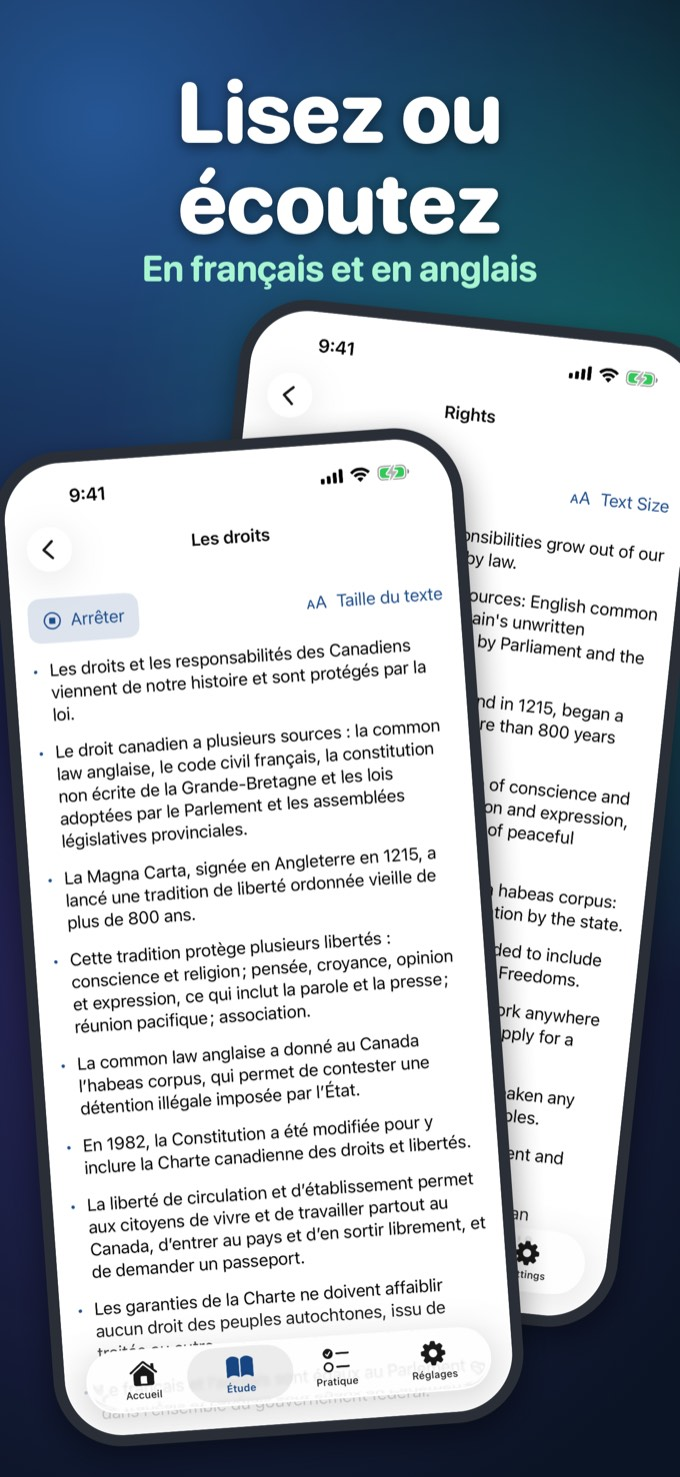
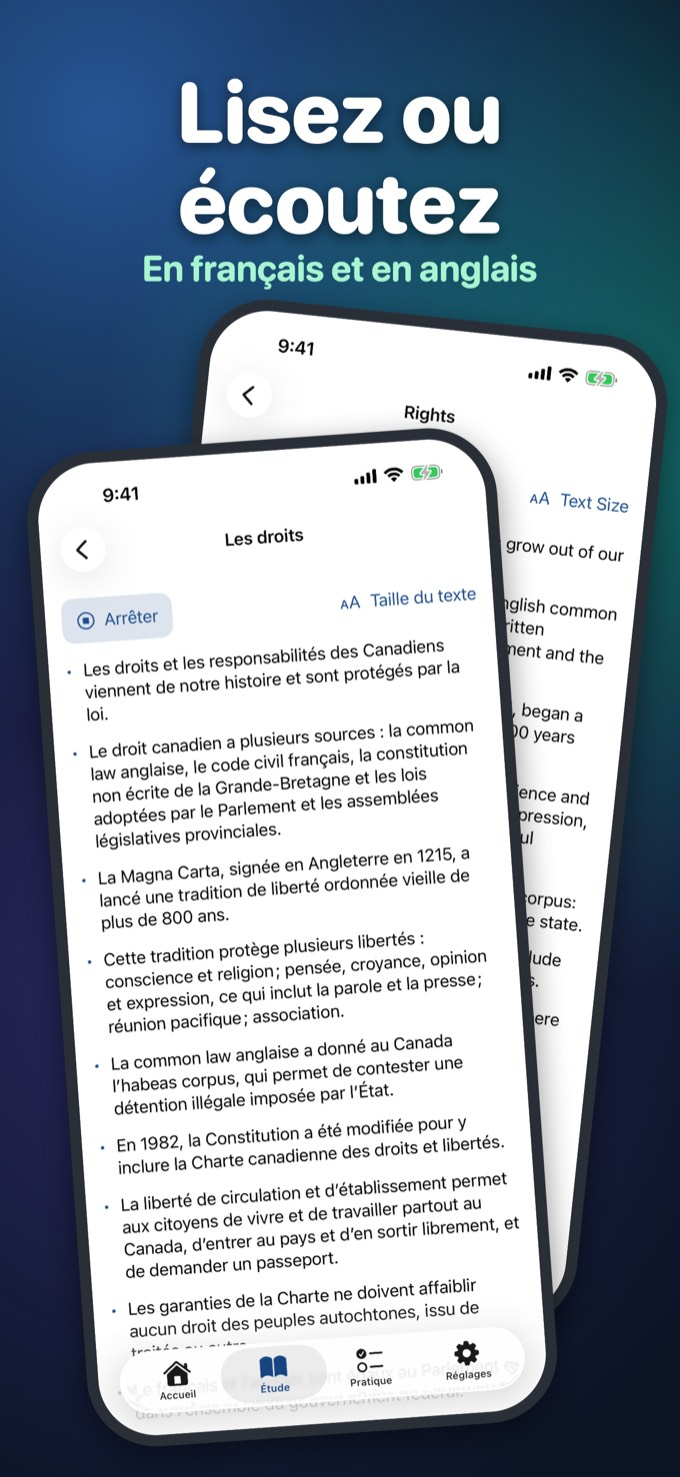
fix: use the screenshots that no longer cut off the app
The nine CardTrainer and CitizenCoach images come from the re-rendered
App Store exports, where every phone stays whole on the page instead of
running off the bottom edge.

Changed region(s): [[0.0, 0.1869, 1.0, 0.9966], [0.2779, 0.3426, 0.4324, 0.3737]]

diff --git a/docs/assets.md b/docs/assets.md
@@ -16,3 +16,5 @@ Production app imagery is copied from local app exports. The captioned screensho
 - `assets/citizencoach-readiness.jpg`, `assets/citizencoach-readiness-fr.jpg` — `citizencoach/scratch/appstore-screenshots/captioned/{en,fr}/iphone/01-home.png`, resized to 680px wide, JPEG quality 84. All six were checked visually for personal information; none was present (sample study text and sample readiness figures only).
 
 All nine screenshots were replaced on 2026-10-22 with the redesigned captioned exports from the same folders, same sizes and quality. The file names stay the same, so `citizencoach-study*.jpg` now holds the Read or Listen image.
+
+Refreshed again later on 2026-10-22 from the same exports after the screenshot scripts stopped cutting off the phone (CardTrainer 6b53356, CitizenCoach bad71d2): every phone is now whole on the page. Same sizes and quality; all nine were checked visually again, with no personal information.
